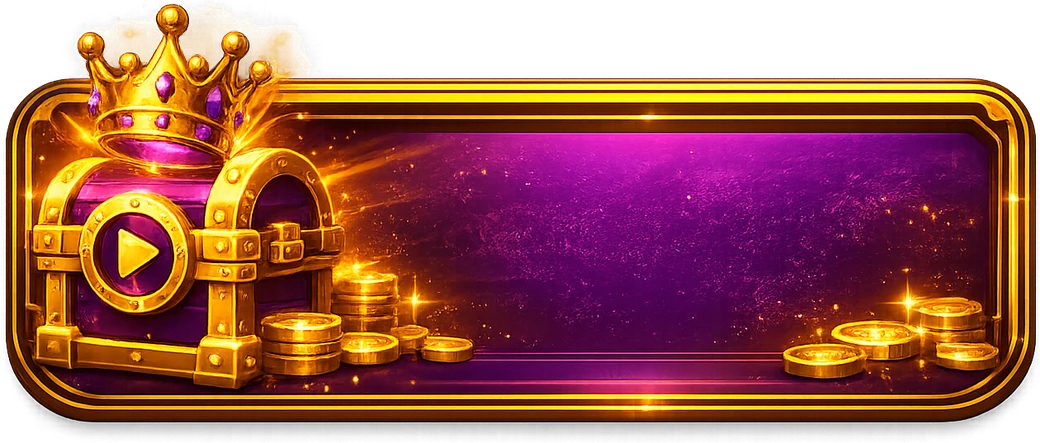
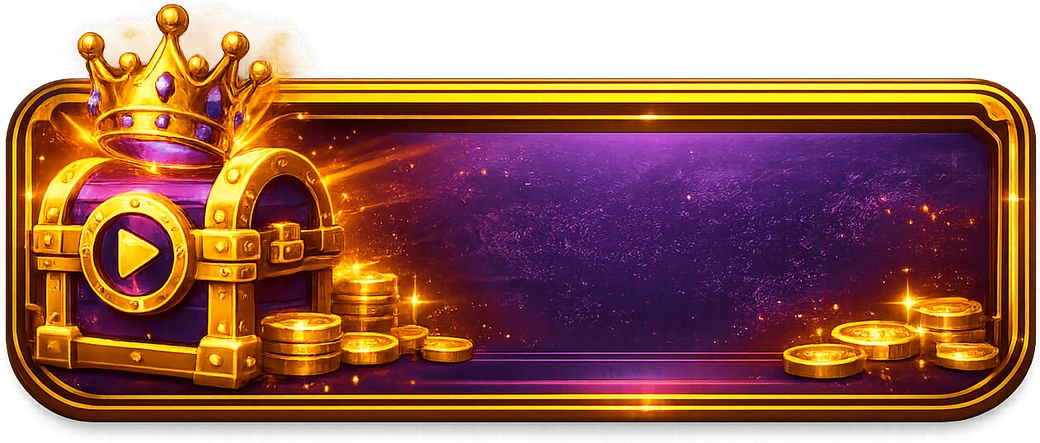
v1.87.2: nieuwe art voor de kist, het kruisje en de pil
Dezelfde bestandsnamen, nieuwe tekeningen. Daarom gaat de cache van de service
worker mee omhoog: art die op hetzelfde adres wordt overschreven komt anders
uit de cache van wie hem al een keer geladen heeft.

diff --git a/frontend/public/sw.js b/frontend/public/sw.js
@@ -10,7 +10,7 @@
 //    briefly-stale shell can still boot from cache instead of going black.
 //  - Every activation purges ALL old caches (drops any poisoned shell).
 // Never touches the WebSocket or the API.
-const CACHE = "penneer-v29"; // v29: main page past op een scherm + nieuw telknopje
+const CACHE = "penneer-v30"; // v30: nieuwe art voor de werf-advertentie (kist, kruis, pil)
 
 self.addEventListener("install", () => {
   self.skipWaiting();

diff --git a/frontend/src/version.ts b/frontend/src/version.ts
@@ -1,2 +1,2 @@
 // Bump per user-facing release. Shown in Settings > About.
-export const APP_VERSION = "1.87.1";
+export const APP_VERSION = "1.87.2";
